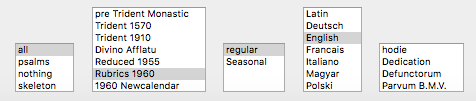
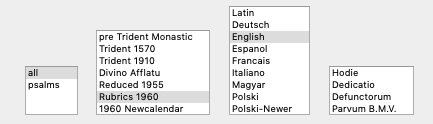
Accents

Changed region(s): [[0.03, 0.0297, 0.9908, 0.9505]]

diff --git a/web/www/horas/Help/help.html b/web/www/horas/Help/help.html
@@ -70,35 +70,28 @@ If the starting page image extends far beyond the screen, set <B>screen height</
 Click <span class=prma>OK</span> 
 to get to the main table again. If your computer allows cookies, this values and the
 ones on the bottom row will be saved for the next session.<BR><BR>
-The five selectors on the <span class=prm>bottom row</span> allows you to control how the
+The four selectors on the <span class=prm>bottom row</span> allows you to control how the
 Hours are rendered.<BR><BR>
 <CENTER><IMG SRC="selectors.png" ALT="selector"></CENTER><BR><BR>
 
 The first selector displays the Office in different formats.<BR><BR>
-To <span class=prm>pray</span> the hour, please select any mode other than skeleton:<BR>
+To <span class=prm>pray</span> the hour, please select either mode:<BR>
 <UL>
 <LI><span class=prm>all</span> prints everything, including the common prayers. (Default)
 <LI><span class=prm>psalms</span> only indicates the common prayers.
-<LI><span class=prm>nothing</span> prints only the Ordinarium; the psalms, lections and other longer items are only indicated.
-<LI><span class=prm>skeleton</span> prints only the structure of the Hour.
 </UL>
-For instance, click now on the leftmost selector, choosing <span class=prma>skeleton</span> and click on the
+For instance, click now on the leftmost selector, choosing <span class=prma>Psalms</span> and click on the
 <span class=prm>Completorium</span> button.<BR><BR>
 
-The programlet shows the skeleton of the easiest-to-compose <span class=prm>Hour</span>, that of Compline.<BR><BR>
-
-<CENTER><IMG SRC="compskel.png" ALT="completorium-skeleton"></CENTER><BR><BR>
-
-
-If you select "Psalms", this will result: <BR><BR>
+This will result: <BR><BR>
 
 <CENTER><IMG SRC="horastable.png" ALT="horastable"></CENTER><BR><BR>
 
 <UL>
 <LI>Click the button next to the indicated element in the Hour, and the text will come up in a separate window as a <span class=prma>popup</span>. The picture shows the <span class=prma>Pater Noster</span> as popup.<BR><BR>
-<CENTER><IMG SRC="expandedpopup.png" ALT="expanded and popup"></CENTER><BR><BR><BR><BR><BR><BR>
+<CENTER><IMG SRC="expandedpopup.png" ALT="expanded and popup"></CENTER><BR><BR>
 <LI>In any selection, clicking on <B>Top</B> brings the cell to the top, <B>Next</B> brings the next cell to the top.<BR><BR>
-<LI>The number in the right cell is for reference.<BR><BR>
+<LI>The number in the right part of the cell is for reference.<BR><BR>
 <LI>If you click on any <span class=prma>radio button</span> next to the section title,
 that part will be expanded. Click an another to change the expanded part, or on the same
 section's button again, to contract the expansion.<BR><BR>
